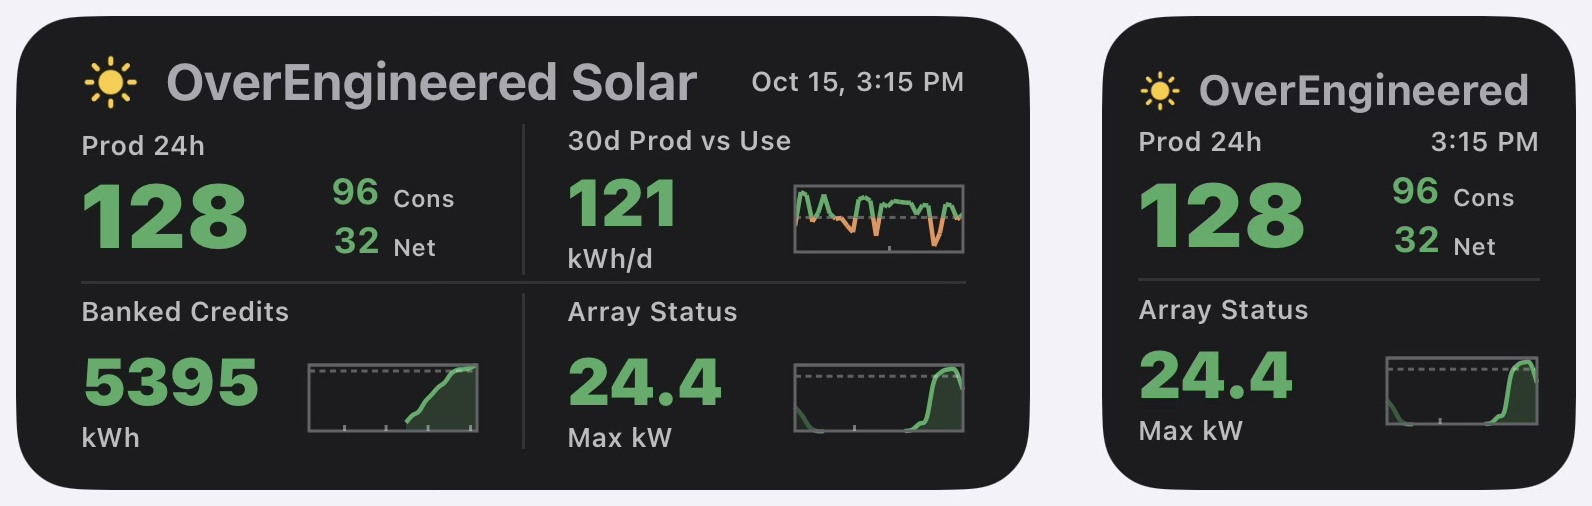
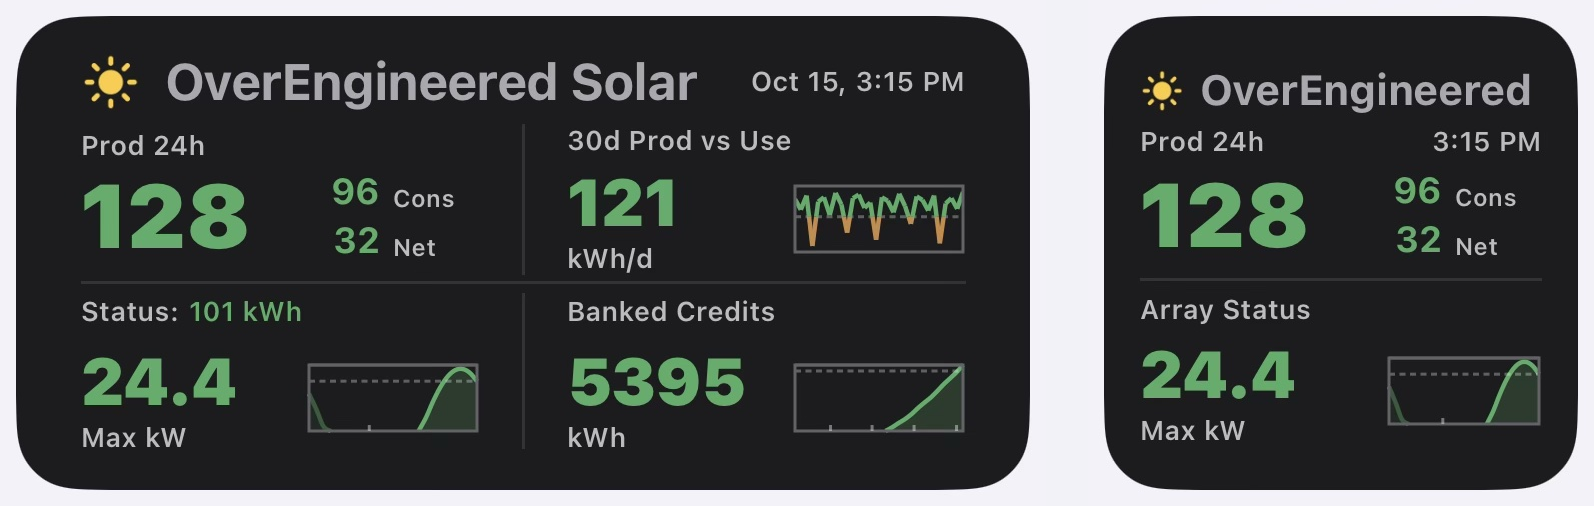
Solar page: new widget pictures (new layout, darker orange)
Replaces images/solar-widgets.png (Solar page) and images/solar-widget.png (Solar tile and share image). Picture width attribute updated. No text changes.

Claude-Session: https://claude.ai/code/session_016AeEqKR39vMbb4fEUL6Hap

diff --git a/solar.html b/solar.html
@@ -53,7 +53,7 @@
     <h1>iPhone Solar Widget for Enphase</h1>
     <p class="lead prose">iPhone Home Screen and Lock Screen widgets for Enphase solar systems: today's production, a banked-credit estimate, and fault and dirty-panel warnings. Free for personal use.</p>
 
-    <img class="photo contain widget" src="images/solar-widgets.png" width="1592" height="506" alt="The OverEngineered Solar widget: the medium size on the left and the small size on the right, showing 24-hour production, consumption and net, 30-day production against use, banked credits and array status">
+    <img class="photo contain widget" src="images/solar-widgets.png" width="1594" height="506" alt="The OverEngineered Solar widget: the medium size on the left and the small size on the right, showing 24-hour production, consumption and net, 30-day production against use, banked credits and array status">
 
     <div class="prose">
     <h2>What it shows</h2>
